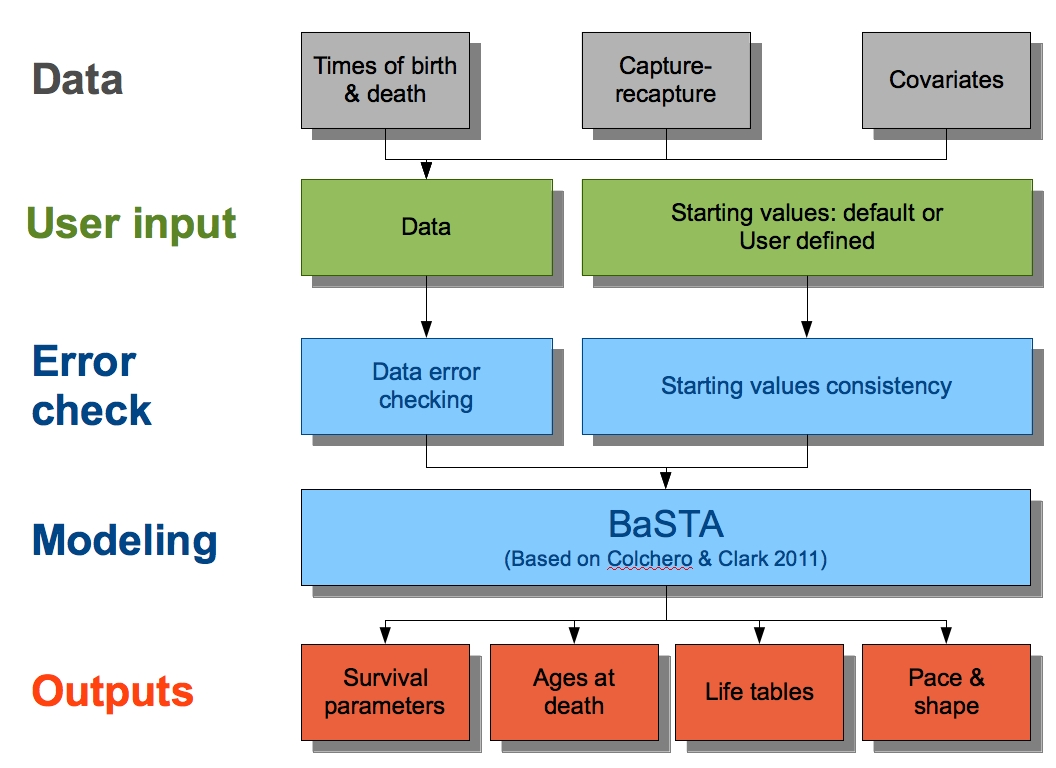
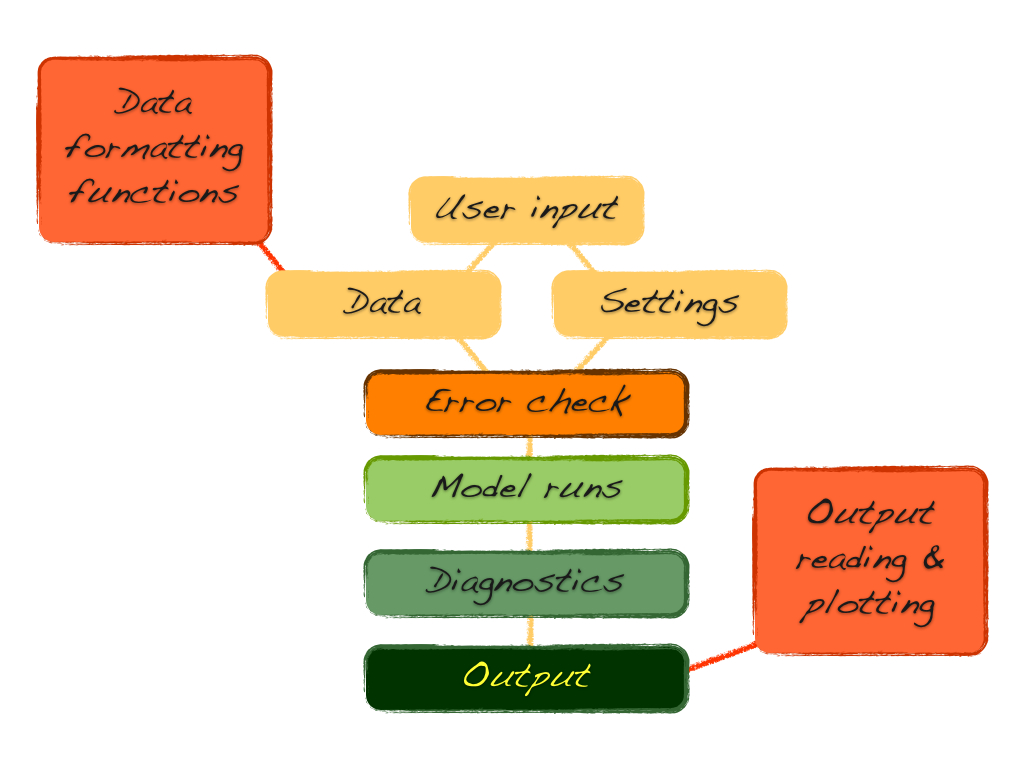
Changed BaSTA flow diagram.
git-svn-id: svn://svn.r-forge.r-project.org/svnroot/basta@783 edb9625f-4e0d-4859-8d74-9fd3b1da38cb

diff --git a/www/index.php b/www/index.php
@@ -115,7 +115,7 @@ echo '<?xml version="1.0" encoding="UTF-8"?>';
 													<a name="description"></a>
 													<img alt="Package" border="0" width="900px" src="package.jpg?">
 													<p class="parag">The core of the model is a Monte Carlo Markov Chain (MCMC) algorithm that combines Metropolis sampling for survival parameters and latent states (i.e. unknown times of birth and death) and direct sampling for recapture probabilities (Clark 2007, Colchero and Clark 2012). The main function performs several diagnostics on the user's inputs such as checking that the data is consistent with the model's requirements and verifies that the number of iterations, the burnin sequence and the thinning gap are consistent (Fig. 2).</p>
-													<p style="text-align:center"><br><img style="margin:0px;padding:0px;border:none;width:475px" align="middle" src="BastaGeneralChart.jpg?"><br></p>
+													<p style="text-align:center"><img style="margin:0px;padding:0px;border:none;width:600px" align="middle" src="BastaGeneralChart.jpg?"><br></p>
 													<p class="caption" style="text-align:center">Fig. 2. <b>BaSTA</b> general package chart.<br></p>
 													<p class="parag">After running these diagnostics, <b>BaSTA</b> uses a dynamic procedure to find adequate jump standard deviations for mortality parameters. This procedure runs before the core of the analysis is performed, keeping the user from having to find these jump sd's by trial and error. After apropriate jumps are found, multiple MCMC simulations can be ran either in parallel or in series. In case convergence is not acheived or some or all simulations failed, neither convergence nor model selection diagnostics are calculated.<br><br><b>The current version includes:</b></p>
 													<ul>
